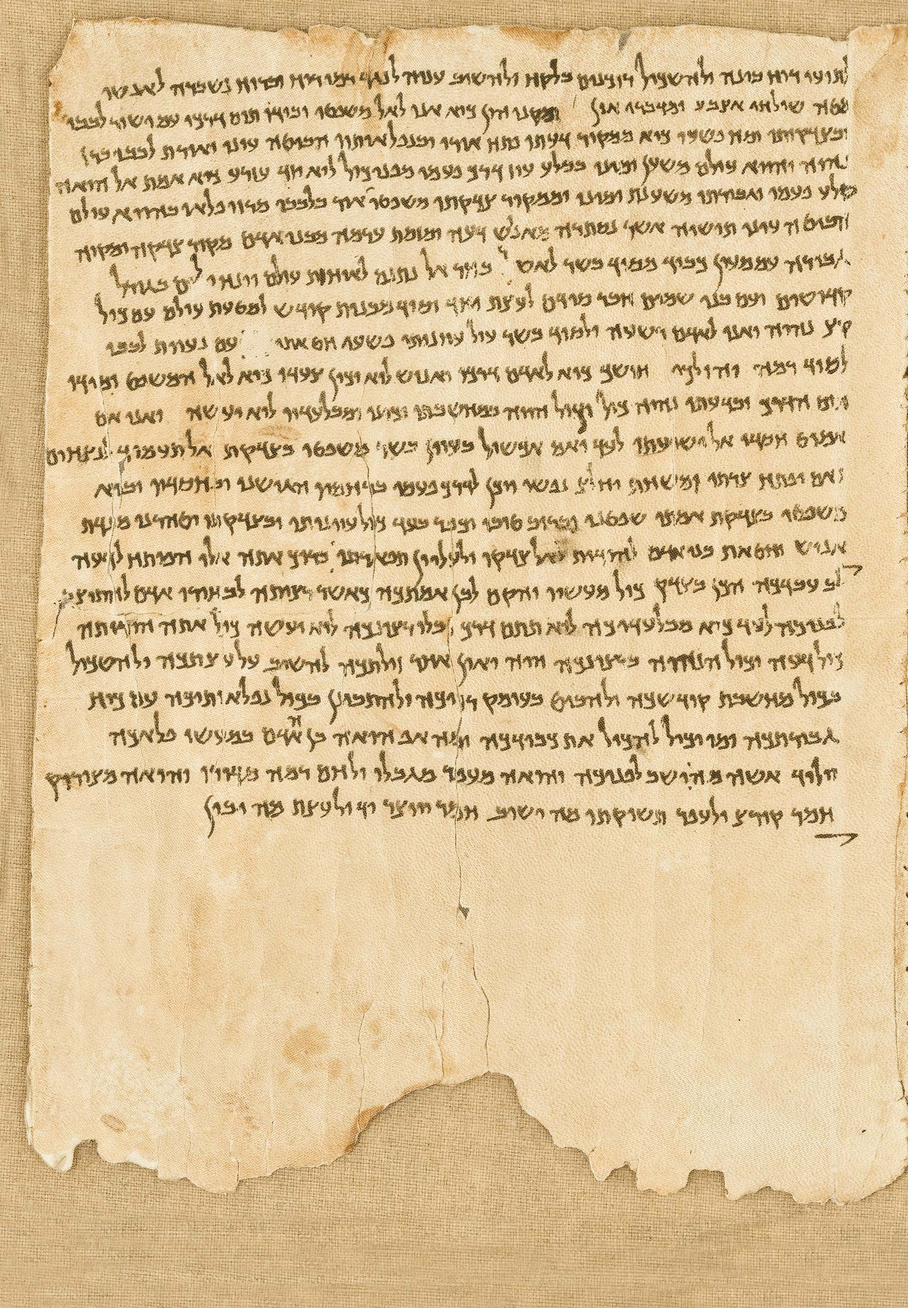
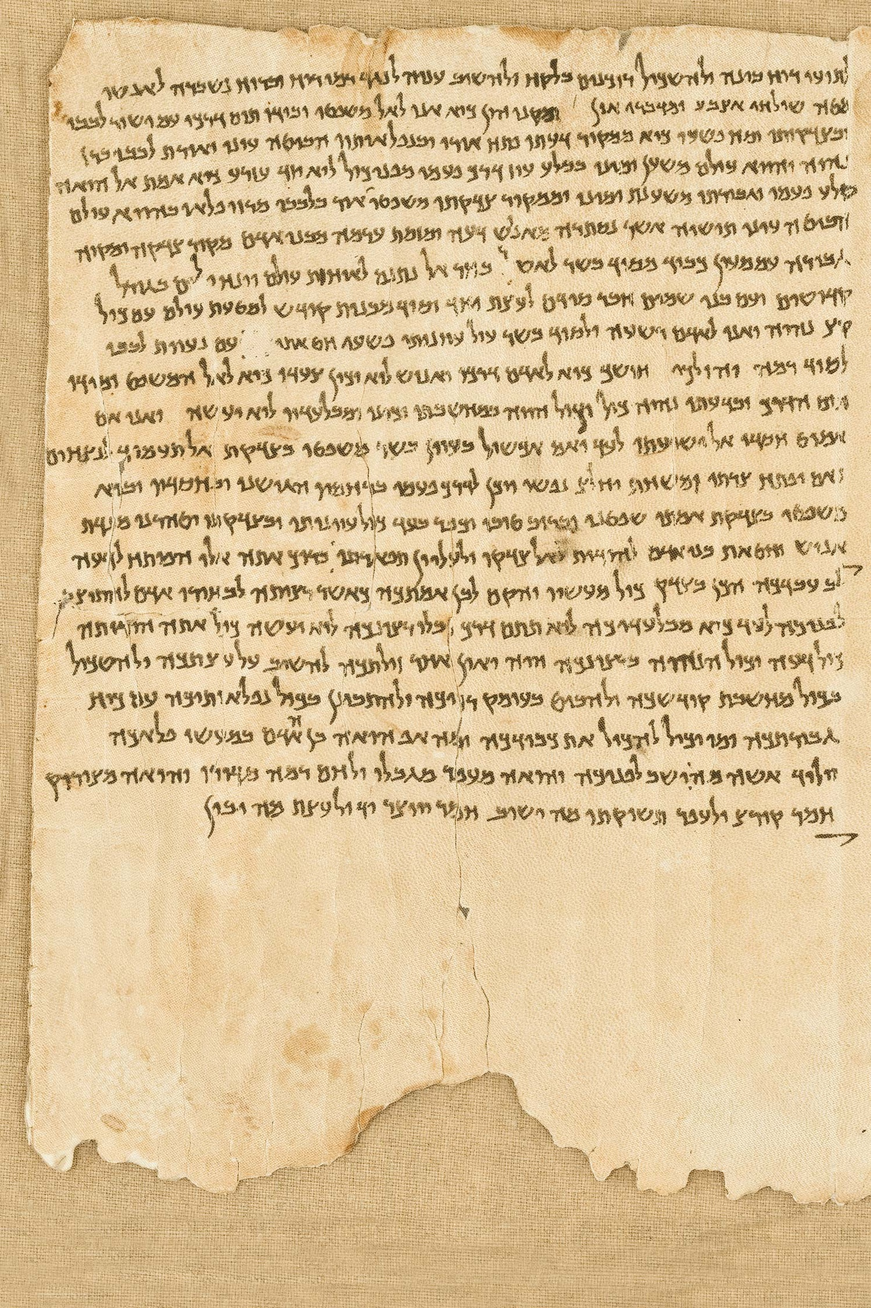
Community Rule text and resizing of columns.

diff --git a/src/main/js/DssIdentifierCtrl.js b/src/main/js/DssIdentifierCtrl.js
@@ -9,7 +9,7 @@ com.digitald4.biblical.DssIdentifierCtrl = function($http, $scope, $window, lett
   const makeColumns = (n) => Array.from({length: n}, (_, i) => String(i + 1));
   this.scrolls = {
     ISAIAH: {name: 'Isaiah', filename: 'isaiah', columns: makeColumns(54), res: 9, textFile: '1Q_Isaiah_a.txt'},
-    COMMUNITY_RULE: {name: 'Community Rule', filename: 'community', columns: makeColumns(11), res: 7},
+    COMMUNITY_RULE: {name: 'Community Rule', filename: 'community', columns: makeColumns(11), res: 7, textFile: '1Q_Community_Rule.txt'},
     WAR_SCROLL: {name: 'War Scroll', filename: 'war', columns: makeColumns(15), res: 8, textFile: '1Q_War_Scroll.txt'},
     TEMPLE: {name: 'Temple Scroll', filename: 'temple', columns: makeColumns(67), res: 9},
     HABAKKUK: {name: 'Commentary on Habakkuk', filename: 'habakkuk', columns: makeColumns(14), res: 7},

diff --git a/src/main/python/services/dss_images/stitch.py b/src/main/python/services/dss_images/stitch.py
@@ -111,13 +111,13 @@ if __name__ == '__main__':
         # construct_column(Collection.ISAIAH, 29, res)
     # cv2.waitKey(0)
 
-    construct_column(Collection.WAR, 1)
-    cv2.waitKey(0)
     # for c in range(1, 16):
       # construct_column(Collection.WAR, c)
 
     # for c in range(1, 12):
         # construct_column(Collection.COMMUNITY_RULE, c)
+    construct_column(Collection.COMMUNITY_RULE, 11)
+    cv2.waitKey(0)
 
     # for c in range(2, 68):
         # construct_column(Collection.TEMPLE_SCROLL, c, res=9)
